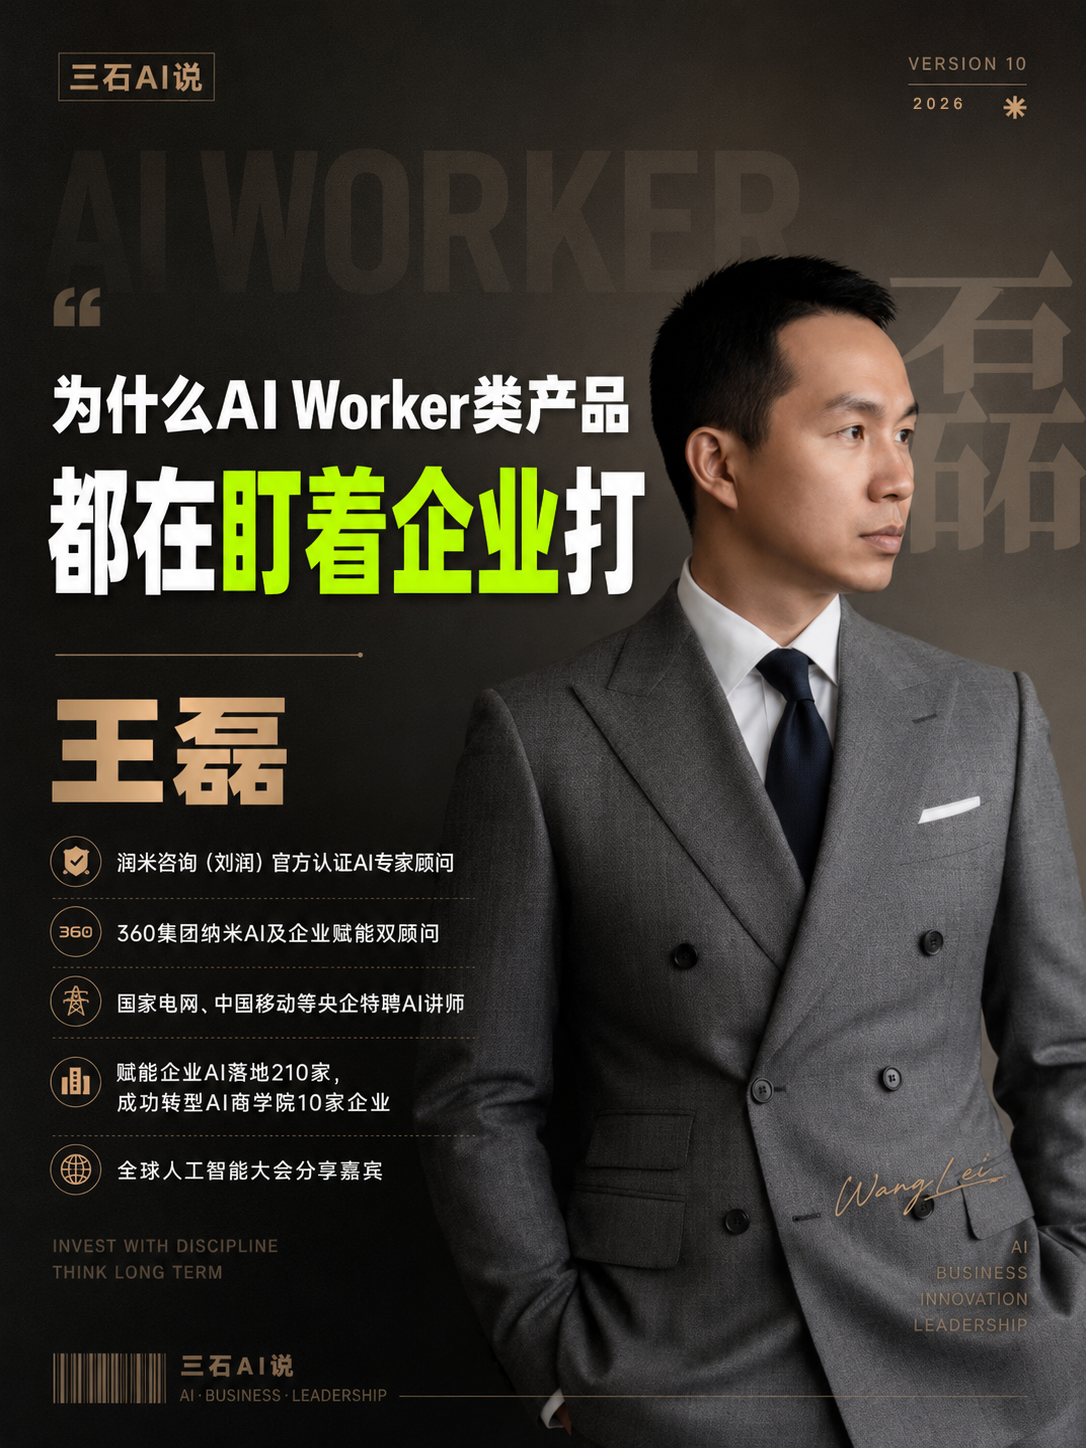
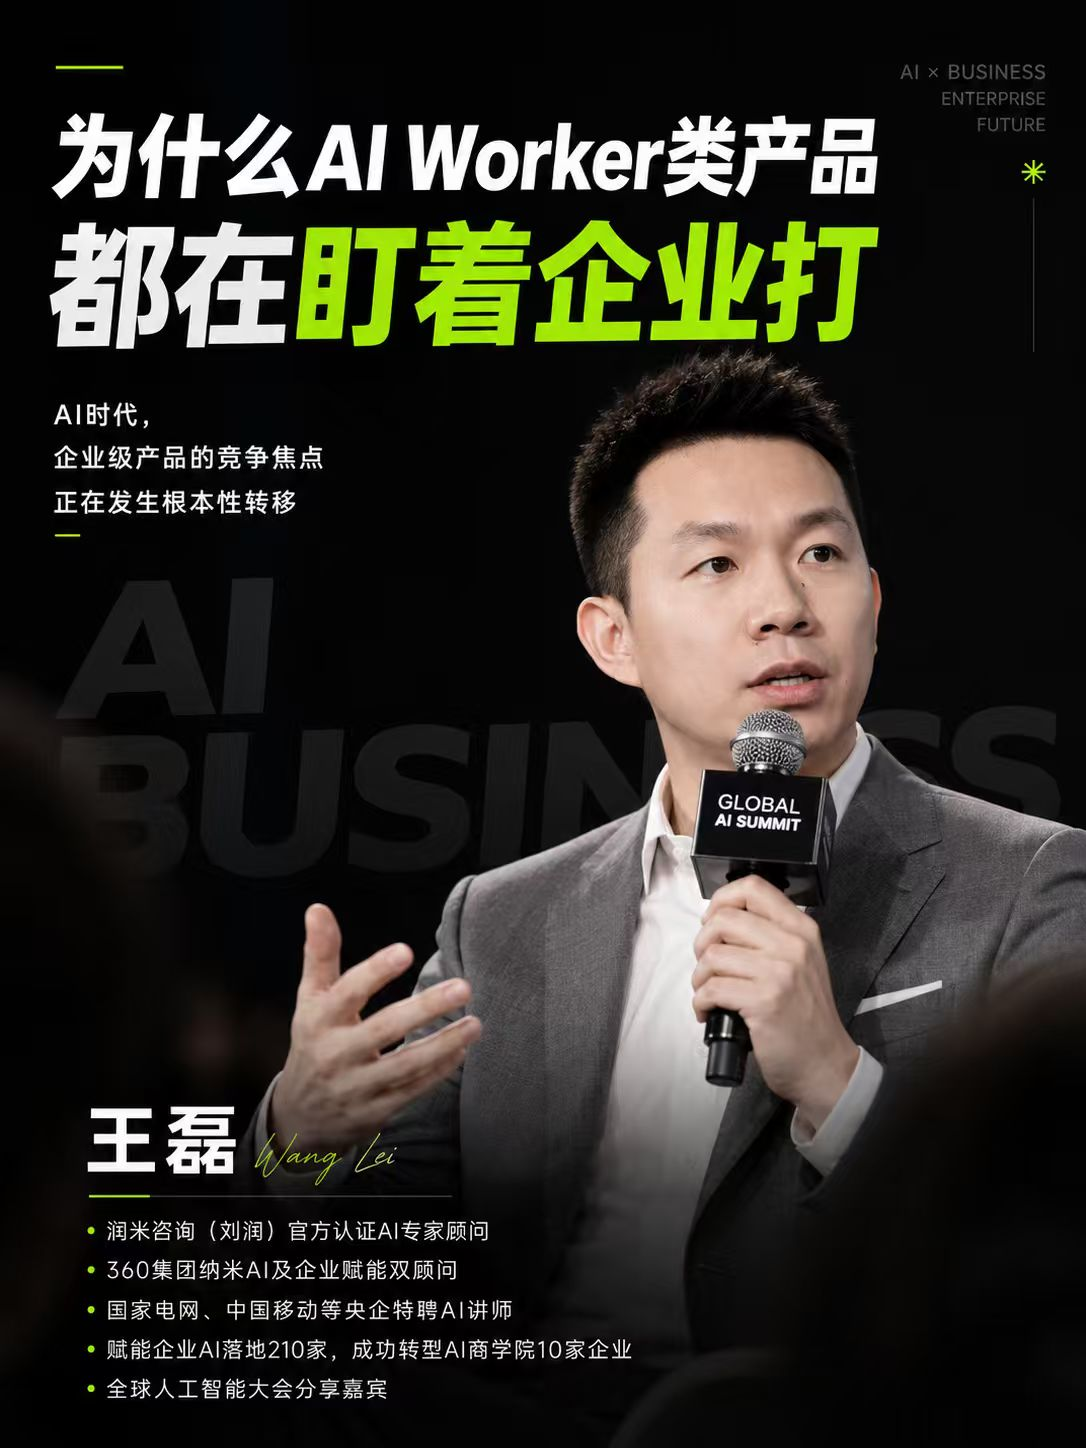
Feature approved posters above the fold

diff --git a/README.md b/README.md
@@ -4,10 +4,27 @@
   <strong>Turn 3–5 portrait references and a natural-language brief into 5, 7, or 10 distinct premium business IP posters.</strong>
 </p>
 
+## Showcase · Five User-Approved Posters
+
+<p align="center">
+  <strong>3 identity references + 1 natural-language brief → 10 directions → 5 approved posters → 1 reusable Skill</strong>
+</p>
+
+<p align="center">
+  <img src="showcase/01-black-neon-green.png" width="31%" alt="Black and neon green summit poster">
+  <img src="showcase/02-ivory-editorial.png" width="31%" alt="Ivory editorial consultant poster">
+  <img src="showcase/03-graphite-thought-leader.png" width="31%" alt="Graphite thought leader poster">
+</p>
+
+<p align="center">
+  <img src="showcase/04-high-contrast-closeup.png" width="46%" alt="High-contrast close-up poster">
+  <img src="showcase/05-black-gold-authority.png" width="46%" alt="Black and champagne-gold authority poster">
+</p>
+
 <p align="center">
   <a href="README.zh-CN.md">简体中文</a> ·
   <a href="#installation">Installation</a> ·
-  <a href="#showcase">Showcase</a> ·
+  <a href="#showcase--five-user-approved-posters">Showcase</a> ·
   <a href="https://github.com/qingyunAGI/qingyun-business-ip-poster-skill/releases/latest">Latest Release</a>
 </p>
 
@@ -21,21 +38,6 @@
 `qingyun-business-ip-poster-skill` is a Codex skill for high-end personal-brand and expert posters. It converts loose copy and portrait references into a controlled batch of vertical 3:4 concepts with strong identity fidelity, readable headlines, factual discipline, and genuine visual variety.
 
 The goal is not to recolor one template. The skill changes camera distance, pose, subject placement, scene, typography, information layout, accent color, and narrative emphasis across the batch—then checks every poster before delivery.
-
-## Showcase
-
-Five user-approved directions from one real production set:
-
-<p align="center">
-  <img src="showcase/01-black-neon-green.png" width="31%" alt="Black and neon green summit poster">
-  <img src="showcase/02-ivory-editorial.png" width="31%" alt="Ivory editorial consultant poster">
-  <img src="showcase/03-graphite-thought-leader.png" width="31%" alt="Graphite thought leader poster">
-</p>
-
-<p align="center">
-  <img src="showcase/04-high-contrast-closeup.png" width="38%" alt="High-contrast close-up poster">
-  <img src="showcase/05-black-gold-authority.png" width="38%" alt="Black and champagne-gold authority poster">
-</p>
 
 ## What It Does
 
@@ -223,4 +225,3 @@ GitHub: [@qingyunAGI](https://github.com/qingyunAGI)
 ---
 
 This repository publishes version **1.0.0** of the skill and its five approved showcase images. No license file is included; please contact the author before redistribution or commercial repackaging.
-

diff --git a/README.zh-CN.md b/README.zh-CN.md
@@ -4,10 +4,27 @@
   <strong>把 3—5 张人物参考照与一段自然语言需求，转化为 5 / 7 / 10 张真正有差异的高级商务个人 IP 海报。</strong>
 </p>
 
+## 5 张用户认可效果图
+
+<p align="center">
+  <strong>3 张人物身份参考 + 1 段自然语言文案 → 10 个方向探索 → 5 张认可版本 → 1 个可复用 Skill</strong>
+</p>
+
+<p align="center">
+  <img src="showcase/01-black-neon-green.png" width="31%" alt="黑底荧光绿峰会型海报">
+  <img src="showcase/02-ivory-editorial.png" width="31%" alt="暖象牙白企业顾问型海报">
+  <img src="showcase/03-graphite-thought-leader.png" width="31%" alt="石墨灰思想领袖型海报">
+</p>
+
+<p align="center">
+  <img src="showcase/04-high-contrast-closeup.png" width="46%" alt="极黑超近景强识别海报">
+  <img src="showcase/05-black-gold-authority.png" width="46%" alt="黑金权威背书型海报">
+</p>
+
 <p align="center">
   <a href="README.md">English</a> ·
   <a href="#安装方法">安装方法</a> ·
-  <a href="#效果展示">效果展示</a> ·
+  <a href="#5-张用户认可效果图">效果展示</a> ·
   <a href="https://github.com/qingyunAGI/qingyun-business-ip-poster-skill/releases/latest">最新版本</a>
 </p>
 
@@ -21,21 +38,6 @@
 `qingyun-business-ip-poster-skill` 是一个面向 Codex 的高级商务个人 IP 海报工作流。它会把零散文案与多张人物参考照整理成结构化设计任务，批量生成竖版 3:4 方案，并重点控制人物一致性、标题可读性、事实准确性与版本差异。
 
 它不是给同一张模板换 10 次颜色，而是主动变化镜头、姿态、人物位置、背景场景、标题结构、信息分栏、强调色和视觉叙事，再逐张完成质量检查。
-
-## 效果展示
-
-同一真实项目中得到用户认可的 5 个方向：
-
-<p align="center">
-  <img src="showcase/01-black-neon-green.png" width="31%" alt="黑底荧光绿峰会型海报">
-  <img src="showcase/02-ivory-editorial.png" width="31%" alt="暖象牙白企业顾问型海报">
-  <img src="showcase/03-graphite-thought-leader.png" width="31%" alt="石墨灰思想领袖型海报">
-</p>
-
-<p align="center">
-  <img src="showcase/04-high-contrast-closeup.png" width="38%" alt="极黑超近景强识别海报">
-  <img src="showcase/05-black-gold-authority.png" width="38%" alt="黑金权威背书型海报">
-</p>
 
 ## 它能做什么
 
